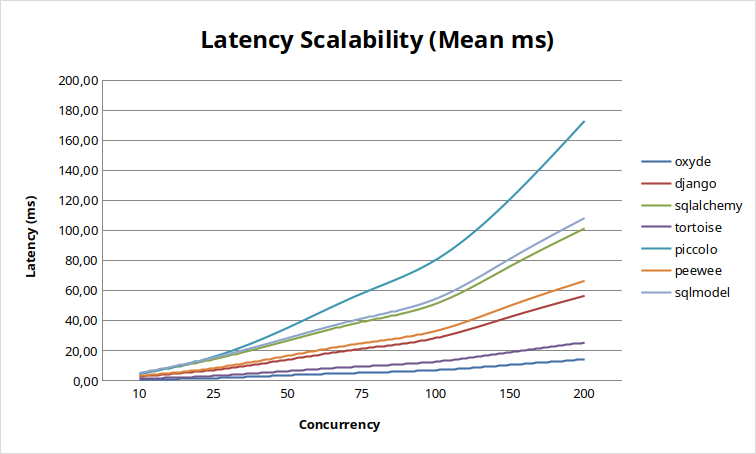
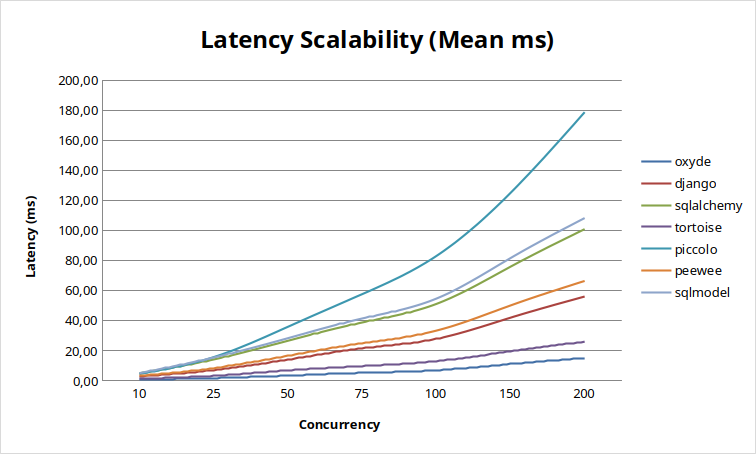
Updated benchmarks data

diff --git a/docs/advanced/benchmarks.md b/docs/advanced/benchmarks.md
@@ -1,7 +1,7 @@
 # Benchmarks
 
 !!! info "Benchmark Date"
-    These benchmarks were run on **March 7, 2026** with Oxyde 0.5.0.
+    These benchmarks were run on **March 11, 2026** with Oxyde 0.5.0.
     Results may vary depending on hardware and database configuration.
 
 ## Summary (average ops/sec)
@@ -10,36 +10,36 @@
 
 | Rank | ORM | Avg ops/sec |
 |------|-----|-------------|
-| 1 | Oxyde | 1,433 |
-| 2 | Piccolo | 956 |
-| 3 | Tortoise | 896 |
-| 4 | Django | 733 |
-| 5 | SQLAlchemy | 455 |
-| 6 | SQLModel | 433 |
-| 7 | Peewee | 79 |
+| 1 | Oxyde | 1,475 |
+| 2 | Piccolo | 932 |
+| 3 | Tortoise | 888 |
+| 4 | Django | 736 |
+| 5 | SQLAlchemy | 445 |
+| 6 | SQLModel | 431 |
+| 7 | Peewee | 80 |
 
 ### MySQL
 
 | Rank | ORM | Avg ops/sec |
 |------|-----|-------------|
-| 1 | Oxyde | 1,284 |
-| 2 | Django | 816 |
-| 3 | Tortoise | 783 |
-| 4 | SQLAlchemy | 523 |
-| 5 | SQLModel | 503 |
-| 6 | Peewee | 467 |
+| 1 | Oxyde | 1,239 |
+| 2 | Tortoise | 794 |
+| 3 | Django | 714 |
+| 4 | SQLAlchemy | 536 |
+| 5 | SQLModel | 505 |
+| 6 | Peewee | 461 |
 
 ### SQLite
 
 | Rank | ORM | Avg ops/sec |
 |------|-----|-------------|
-| 1 | Oxyde | 2,575 |
-| 2 | Tortoise | 1,884 |
-| 3 | Django | 1,283 |
-| 4 | SQLAlchemy | 592 |
-| 5 | SQLModel | 560 |
-| 6 | Peewee | 553 |
-| 7 | Piccolo | 468 |
+| 1 | Oxyde | 2,525 |
+| 2 | Tortoise | 1,882 |
+| 3 | Django | 1,294 |
+| 4 | SQLAlchemy | 588 |
+| 5 | SQLModel | 567 |
+| 6 | Peewee | 548 |
+| 7 | Piccolo | 469 |
 
 ---
 
@@ -51,13 +51,13 @@
 
 | Test | asyncpg | Oxyde | Django | SQLAlchemy | Tortoise | Piccolo | Peewee | SQLModel |
 |------|---------|-------|--------|------------|----------|---------|--------|----------|
-| insert_single | 761 | 655 | 640 | 536 | 750 | 714 | 142 | 536 |
-| insert_bulk_100 | 416 | 361 | 251 | 187 | 257 | 204 | 99 | 128 |
-| select_pk | 7,053 | 6,412 | 2,926 | 1,594 | 3,946 | 3,915 | 171 | 1,472 |
-| select_filter | 813 | 308 | 154 | 168 | 144 | 133 | 94 | 142 |
-| update_single | 745 | 768 | 622 | 523 | 693 | 746 | 143 | 523 |
-| update_bulk | 649 | 652 | 600 | 501 | 647 | 665 | 140 | 499 |
-| delete_single | 287 | 280 | 171 | 262 | 274 | 281 | 105 | 258 |
+| insert_single | 769 | 664 | 701 | 531 | 735 | 700 | 143 | 537 |
+| insert_bulk_100 | 444 | 354 | 252 | 185 | 261 | 201 | 100 | 126 |
+| select_pk | 7,181 | 6,823 | 2,956 | 1,566 | 3,910 | 3,708 | 174 | 1,468 |
+| select_filter | 829 | 308 | 153 | 162 | 143 | 132 | 93 | 138 |
+| update_single | 747 | 756 | 659 | 526 | 674 | 723 | 144 | 528 |
+| update_bulk | 657 | 707 | 586 | 501 | 640 | 673 | 142 | 501 |
+| delete_single | 275 | 282 | 172 | 263 | 276 | 282 | 106 | 253 |
 
 ### Query Operations
 
@@ -65,12 +65,12 @@
 
 | Test | asyncpg | Oxyde | Django | SQLAlchemy | Tortoise | Piccolo | Peewee | SQLModel |
 |------|---------|-------|--------|------------|----------|---------|--------|----------|
-| filter_simple | 5,698 | 5,088 | 2,801 | 1,502 | 3,544 | 3,564 | 166 | 1,461 |
-| filter_complex | 1,383 | 601 | 287 | 324 | 281 | 268 | 121 | 271 |
-| filter_in | 2,769 | 643 | 642 | 629 | 737 | 680 | 147 | 574 |
-| order_limit | 4,593 | 3,808 | 2,274 | 1,381 | 2,170 | 2,780 | 166 | 1,312 |
-| aggregate_count | 4,559 | 8,042 | 3,855 | 1,655 | 4,414 | 4,637 | 171 | 1,583 |
-| aggregate_mixed | 5,146 | 4,437 | 1,811 | 1,396 | 2,564 | 3,344 | 169 | 1,369 |
+| filter_simple | 5,731 | 5,017 | 2,829 | 1,449 | 3,524 | 3,491 | 170 | 1,428 |
+| filter_complex | 1,489 | 599 | 281 | 310 | 280 | 263 | 122 | 267 |
+| filter_in | 2,657 | 620 | 653 | 602 | 769 | 656 | 149 | 562 |
+| order_limit | 4,882 | 4,363 | 2,284 | 1,347 | 2,051 | 2,688 | 169 | 1,296 |
+| aggregate_count | 6,132 | 7,319 | 3,715 | 1,584 | 4,333 | 4,397 | 175 | 1,599 |
+| aggregate_mixed | 4,990 | 5,374 | 1,871 | 1,388 | 2,629 | 3,421 | 173 | 1,383 |
 
 ### Relations
 
@@ -78,10 +78,10 @@
 
 | Test | asyncpg | Oxyde | Django | SQLAlchemy | Tortoise | Piccolo | Peewee | SQLModel |
 |------|---------|-------|--------|------------|----------|---------|--------|----------|
-| join_simple | 22 | 10 | 3 | 5 | 4 | 2 | 4 | 4 |
-| join_filter | 22 | 10 | 3 | 5 | 4 | 2 | 4 | 4 |
+| join_simple | 22 | 9 | 3 | 5 | 4 | 2 | 4 | 4 |
+| join_filter | 23 | 10 | 3 | 5 | 4 | 2 | 4 | 4 |
 | prefetch_related | 33 | 4 | 4 | 4 | 6 | 5 | 5 | 3 |
-| nested_prefetch | 25 | 2 | 1 | 2 | 4 | 3 | 4 | 2 |
+| nested_prefetch | 25 | 3 | 1 | 2 | 3 | 3 | 4 | 2 |
 
 ### Concurrent Operations
 
@@ -89,9 +89,9 @@
 
 | Concurrency | asyncpg | Oxyde | Django | SQLAlchemy | Tortoise | Piccolo | Peewee | SQLModel |
 |-------------|---------|-------|--------|------------|----------|---------|--------|----------|
-| 10 | 1,151 | 1,151 | 280 | 219 | 542 | 501 | 18 | 215 |
-| 50 | 268 | 242 | 57 | 5 | 116 | 109 | 4 | 5 |
-| 100 | 135 | 119 | 29 | 4 | 57 | 55 | 2 | 4 |
+| 10 | 1,304 | 1,077 | 282 | 224 | 544 | 517 | 18 | 214 |
+| 50 | 262 | 233 | 57 | 5 | 112 | 105 | 4 | 5 |
+| 100 | 132 | 121 | 29 | 4 | 56 | 54 | 2 | 4 |
 
 ### Scalability
 
@@ -107,13 +107,13 @@
 
 | Test | aiomysql | Oxyde | Django | SQLAlchemy | Tortoise | Peewee | SQLModel |
 |------|----------|-------|--------|------------|----------|--------|----------|
-| insert_single | 769 | 648 | 647 | 568 | 682 | 561 | 531 |
-| insert_bulk_100 | 384 | 312 | 232 | 156 | 243 | 196 | 115 |
-| select_pk | 5,641 | 6,352 | 3,441 | 1,935 | 3,650 | 1,575 | 1,791 |
-| select_filter | 139 | 359 | 180 | 91 | 80 | 93 | 81 |
-| update_single | 728 | 685 | 660 | 570 | 669 | 574 | 527 |
-| update_bulk | 2,174 | 2,048 | 1,745 | 1,149 | 1,834 | 1,289 | 1,204 |
-| delete_single | 684 | 677 | 339 | 566 | 657 | 506 | 529 |
+| insert_single | 712 | 736 | 665 | 596 | 703 | 529 | 561 |
+| insert_bulk_100 | 409 | 324 | 219 | 156 | 245 | 197 | 112 |
+| select_pk | 6,662 | 6,315 | 3,597 | 1,938 | 3,766 | 1,435 | 1,778 |
+| select_filter | 133 | 346 | 173 | 88 | 77 | 88 | 79 |
+| update_single | 719 | 704 | 634 | 596 | 736 | 539 | 566 |
+| update_bulk | 2,290 | 2,057 | 1,449 | 1,332 | 1,740 | 1,312 | 1,218 |
+| delete_single | 700 | 624 | 352 | 586 | 632 | 503 | 554 |
 
 ### Query Operations
 
@@ -121,12 +121,12 @@
 
 | Test | aiomysql | Oxyde | Django | SQLAlchemy | Tortoise | Peewee | SQLModel |
 |------|----------|-------|--------|------------|----------|--------|----------|
-| filter_simple | 2,981 | 2,880 | 2,659 | 1,526 | 2,326 | 1,277 | 1,467 |
-| filter_complex | 281 | 642 | 325 | 176 | 166 | 180 | 161 |
-| filter_in | 717 | 1,390 | 744 | 517 | 443 | 426 | 478 |
-| order_limit | 2,752 | 3,405 | 2,430 | 1,331 | 1,812 | 1,162 | 1,264 |
-| aggregate_count | 4,647 | 5,369 | 3,650 | 2,017 | 3,336 | 1,630 | 1,965 |
-| aggregate_mixed | 3,343 | 3,662 | 1,830 | 1,507 | 1,791 | 1,414 | 1,534 |
+| filter_simple | 2,921 | 2,978 | 1,912 | 1,546 | 1,622 | 1,317 | 1,486 |
+| filter_complex | 270 | 632 | 289 | 172 | 160 | 177 | 157 |
+| filter_in | 718 | 1,242 | 620 | 501 | 470 | 429 | 480 |
+| order_limit | 2,405 | 3,003 | 2,033 | 1,323 | 1,399 | 1,163 | 1,288 |
+| aggregate_count | 4,638 | 5,122 | 2,849 | 2,016 | 4,180 | 1,630 | 1,946 |
+| aggregate_mixed | 3,312 | 3,318 | 1,637 | 1,564 | 2,302 | 1,416 | 1,465 |
 
 ### Relations
 
@@ -134,10 +134,10 @@
 
 | Test | aiomysql | Oxyde | Django | SQLAlchemy | Tortoise | Peewee | SQLModel |
 |------|----------|-------|--------|------------|----------|--------|----------|
-| join_simple | 4 | 11 | 4 | 3 | 3 | 2 | 2 |
-| join_filter | 4 | 11 | 4 | 3 | 3 | 2 | 3 |
-| prefetch_related | 6 | 12 | 5 | 3 | 3 | 4 | 3 |
-| nested_prefetch | 6 | 8 | 1 | 2 | 2 | 3 | 2 |
+| join_simple | 4 | 11 | 4 | 3 | 2 | 2 | 2 |
+| join_filter | 4 | 11 | 4 | 3 | 3 | 2 | 2 |
+| prefetch_related | 6 | 12 | 5 | 3 | 3 | 3 | 2 |
+| nested_prefetch | 5 | 8 | 1 | 2 | 2 | 3 | 1 |
 
 ### Concurrent Operations
 
@@ -145,9 +145,9 @@
 
 | Concurrency | aiomysql | Oxyde | Django | SQLAlchemy | Tortoise | Peewee | SQLModel |
 |-------------|----------|-------|--------|------------|----------|--------|----------|
-| 10 | 1,083 | 1,220 | 356 | 253 | 566 | 159 | 238 |
-| 50 | 209 | 235 | 66 | 40 | 110 | 32 | 39 |
-| 100 | 105 | 119 | 37 | 22 | 56 | 16 | 21 |
+| 10 | 1,018 | 1,201 | 352 | 250 | 530 | 160 | 232 |
+| 50 | 206 | 227 | 73 | 40 | 105 | 32 | 39 |
+| 100 | 103 | 119 | 36 | 22 | 53 | 16 | 20 |
 
 ### Scalability
 
@@ -163,13 +163,13 @@
 
 | Test | aiosqlite | Oxyde | Django | SQLAlchemy | Tortoise | Piccolo | Peewee | SQLModel |
 |------|-----------|-------|--------|------------|----------|---------|--------|----------|
-| insert_single | 775 | 5,054 | 698 | 568 | 725 | 159 | 158 | 569 |
-| insert_bulk_100 | 622 | 754 | 290 | 75 | 332 | 100 | 120 | 61 |
-| select_pk | 41,600 | 7,503 | 4,531 | 1,929 | 6,015 | 1,588 | 1,958 | 1,874 |
-| select_filter | 1,078 | 284 | 196 | 188 | 82 | 115 | 73 | 156 |
-| update_single | 785 | 8,561 | 707 | 573 | 720 | 161 | 165 | 560 |
-| update_bulk | 13,388 | 7,719 | 6,040 | 1,622 | 8,370 | 1,730 | 2,262 | 1,634 |
-| delete_single | 182 | 229 | 126 | 171 | 181 | 88 | 93 | 169 |
+| insert_single | 748 | 4,585 | 647 | 568 | 715 | 153 | 164 | 561 |
+| insert_bulk_100 | 635 | 817 | 288 | 75 | 318 | 100 | 120 | 63 |
+| select_pk | 42,752 | 7,528 | 4,822 | 1,958 | 6,004 | 1,638 | 1,969 | 1,896 |
+| select_filter | 1,060 | 183 | 193 | 187 | 77 | 115 | 73 | 156 |
+| update_single | 823 | 7,628 | 710 | 546 | 798 | 158 | 165 | 567 |
+| update_bulk | 14,571 | 7,681 | 5,776 | 1,684 | 8,441 | 1,708 | 2,223 | 1,660 |
+| delete_single | 183 | 242 | 128 | 175 | 181 | 86 | 93 | 170 |
 
 ### Query Operations
 
@@ -177,12 +177,12 @@
 
 | Test | aiosqlite | Oxyde | Django | SQLAlchemy | Tortoise | Piccolo | Peewee | SQLModel |
 |------|-----------|-------|--------|------------|----------|---------|--------|----------|
-| filter_simple | 18,518 | 5,413 | 4,118 | 1,882 | 5,228 | 1,529 | 1,762 | 1,822 |
-| filter_complex | 1,778 | 460 | 315 | 330 | 147 | 196 | 131 | 259 |
-| filter_in | 7,183 | 1,597 | 1,000 | 907 | 580 | 560 | 441 | 762 |
-| order_limit | 12,346 | 4,513 | 3,275 | 1,673 | 3,002 | 1,348 | 1,428 | 1,458 |
-| aggregate_count | 44,023 | 10,514 | 6,304 | 2,136 | 13,832 | 1,805 | 2,208 | 2,082 |
-| aggregate_mixed | 12,986 | 6,482 | 2,508 | 1,749 | 4,512 | 1,489 | 1,880 | 1,667 |
+| filter_simple | 18,577 | 5,294 | 4,411 | 1,903 | 5,241 | 1,512 | 1,758 | 1,822 |
+| filter_complex | 1,869 | 314 | 311 | 318 | 142 | 189 | 127 | 261 |
+| filter_in | 7,179 | 1,153 | 1,008 | 872 | 559 | 564 | 428 | 754 |
+| order_limit | 12,284 | 4,235 | 3,295 | 1,673 | 2,937 | 1,346 | 1,342 | 1,601 |
+| aggregate_count | 45,096 | 11,807 | 6,360 | 2,077 | 13,825 | 1,838 | 2,245 | 2,042 |
+| aggregate_mixed | 12,929 | 6,438 | 2,407 | 1,689 | 4,475 | 1,491 | 1,863 | 1,672 |
 
 ### Relations
 
@@ -190,10 +190,10 @@
 
 | Test | aiosqlite | Oxyde | Django | SQLAlchemy | Tortoise | Piccolo | Peewee | SQLModel |
 |------|-----------|-------|--------|------------|----------|---------|--------|----------|
-| join_simple | 28 | 7 | 4 | 5 | 3 | 2 | 2 | 4 |
-| join_filter | 29 | 8 | 4 | 5 | 3 | 2 | 2 | 5 |
-| prefetch_related | 44 | 9 | 5 | 4 | 4 | 4 | 3 | 3 |
-| nested_prefetch | 35 | 8 | 1 | 2 | 3 | 3 | 2 | 2 |
+| join_simple | 26 | 5 | 4 | 5 | 3 | 2 | 2 | 4 |
+| join_filter | 27 | 5 | 4 | 5 | 3 | 2 | 2 | 5 |
+| prefetch_related | 40 | 7 | 5 | 4 | 3 | 4 | 3 | 3 |
+| nested_prefetch | 32 | 6 | 1 | 2 | 3 | 3 | 2 | 2 |
 
 ### Concurrent Operations
 
@@ -201,9 +201,9 @@
 
 | Concurrency | aiosqlite | Oxyde | Django | SQLAlchemy | Tortoise | Piccolo | Peewee | SQLModel |
 |-------------|-----------|-------|--------|------------|----------|---------|--------|----------|
-| 10 | 3,427 | 1,342 | 342 | 204 | 746 | 223 | 303 | 196 |
-| 50 | 722 | 272 | 71 | 37 | 155 | 28 | 60 | 35 |
-| 100 | 362 | 141 | 35 | 19 | 79 | 12 | 30 | 18 |
+| 10 | 3,397 | 1,346 | 343 | 204 | 738 | 221 | 297 | 197 |
+| 50 | 703 | 289 | 71 | 38 | 145 | 28 | 60 | 35 |
+| 100 | 350 | 143 | 36 | 20 | 77 | 12 | 30 | 18 |
 
 ### Scalability
 
@@ -217,17 +217,17 @@
 
 | Test | asyncpg | Oxyde | Django | SQLAlchemy | Tortoise | Piccolo | Peewee | SQLModel |
 |------|---------|-------|--------|------------|----------|---------|--------|----------|
-| insert_single | 1.315 | 1.526 | 1.562 | 1.866 | 1.333 | 1.400 | 7.030 | 1.866 |
-| select_pk | 0.142 | 0.156 | 0.342 | 0.627 | 0.253 | 0.256 | 5.848 | 0.679 |
-| update_single | 1.342 | 1.302 | 1.609 | 1.911 | 1.443 | 1.341 | 7.015 | 1.913 |
+| insert_single | 1.300 | 1.505 | 1.426 | 1.883 | 1.361 | 1.428 | 6.970 | 1.861 |
+| select_pk | 0.139 | 0.147 | 0.338 | 0.638 | 0.256 | 0.270 | 5.737 | 0.681 |
+| update_single | 1.339 | 1.323 | 1.518 | 1.901 | 1.484 | 1.383 | 6.960 | 1.895 |
 
 ### P99 Latency (ms)
 
 | Test | asyncpg | Oxyde | Django | SQLAlchemy | Tortoise | Piccolo | Peewee | SQLModel |
 |------|---------|-------|--------|------------|----------|---------|--------|----------|
-| insert_single | 1.506 | 6.481 | 1.759 | 2.002 | 1.584 | 1.720 | 7.435 | 2.241 |
-| select_pk | 0.159 | 0.359 | 0.391 | 0.695 | 0.277 | 0.338 | 6.222 | 0.983 |
-| update_single | 1.613 | 1.419 | 5.259 | 5.619 | 1.734 | 1.590 | 7.402 | 2.808 |
+| insert_single | 1.367 | 6.959 | 1.660 | 3.314 | 1.637 | 1.750 | 10.516 | 2.380 |
+| select_pk | 0.159 | 0.234 | 0.363 | 0.854 | 0.294 | 0.528 | 6.194 | 0.888 |
+| update_single | 1.417 | 2.156 | 1.734 | 5.442 | 5.008 | 1.655 | 8.108 | 2.016 |
 
 ---
 
@@ -237,10 +237,10 @@ Peak memory (MB):
 
 | Test | asyncpg | Oxyde | Django | SQLAlchemy | Tortoise | Piccolo | Peewee | SQLModel |
 |------|---------|-------|--------|------------|----------|---------|--------|----------|
-| insert_single | 38.7 | 52.7 | 66.2 | 58.3 | 51.1 | 41.7 | 59.0 | 65.6 |
-| select_pk | 44.6 | 57.6 | 71.4 | 64.0 | 56.4 | 47.5 | 63.2 | 71.3 |
-| join_simple | 73.8 | 148.9 | 107.6 | 95.6 | 85.7 | 101.2 | 97.9 | 107.7 |
-| nested_prefetch | 80.0 | 149.3 | 161.1 | 114.4 | 122.1 | 103.9 | 103.5 | 127.8 |
+| insert_single | 37.6 | 52.7 | 66.4 | 58.3 | 51.0 | 41.1 | 60.1 | 67.3 |
+| select_pk | 43.6 | 57.6 | 72.5 | 64.0 | 56.1 | 47.0 | 64.3 | 69.6 |
+| join_simple | 73.7 | 80.7 | 107.8 | 99.0 | 85.5 | 100.5 | 98.5 | 110.1 |
+| nested_prefetch | 78.5 | 104.2 | 159.3 | 115.5 | 121.5 | 108.4 | 105.0 | 128.0 |
 
 ---
 

diff --git a/README.md b/README.md
@@ -34,9 +34,9 @@ Benchmarks vs popular Python ORMs (avg ops/sec, higher is better):
 
 | Database   | Oxyde | Tortoise | Piccolo | Django | SQLAlchemy | SQLModel | Peewee |
 |------------|-------|----------|---------|--------|------------|----------|--------|
-| PostgreSQL | 1,433 | 896      | 956     | 733    | 455        | 433      | 79     |
-| MySQL      | 1,284 | 783      | —       | 816    | 523        | 503      | 467    |
-| SQLite     | 2,575 | 1,884    | 468     | 1,283  | 592        | 560      | 553    |
+| PostgreSQL | 1,475 | 888      | 932     | 736    | 445        | 431      | 80     |
+| MySQL      | 1,239 | 794      | —       | 714    | 536        | 505      | 461    |
+| SQLite     | 2,525 | 1,882    | 469     | 1,294  | 588        | 567      | 548    |
 
 Full benchmark report: **[Documentation](https://oxyde.fatalyst.dev/latest/advanced/benchmarks/)**
 

diff --git a/docs/index.md b/docs/index.md
@@ -79,9 +79,9 @@ Oxyde's Rust core handles SQL generation and query execution, releasing Python's
 
 | Database   | Oxyde | Tortoise | Piccolo | Django | SQLAlchemy | SQLModel | Peewee |
 |------------|-------|----------|---------|--------|------------|----------|--------|
-| PostgreSQL | 1,433 | 896      | 956     | 733    | 455        | 433      | 79     |
-| MySQL      | 1,284 | 783      | —       | 816    | 523        | 503      | 467    |
-| SQLite     | 2,575 | 1,884    | 468     | 1,283  | 592        | 560      | 553    |
+| PostgreSQL | 1,475 | 888      | 932     | 736    | 445        | 431      | 80     |
+| MySQL      | 1,239 | 794      | —       | 714    | 536        | 505      | 461    |
+| SQLite     | 2,525 | 1,882    | 469     | 1,294  | 588        | 567      | 548    |
 
 [:octicons-arrow-right-24: Full benchmark report](advanced/benchmarks.md)
 
